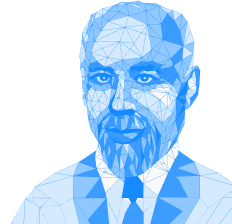
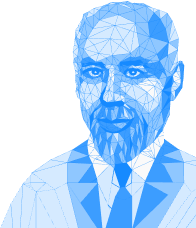
mob-version

diff --git a/banner.css b/banner.css
@@ -7,34 +7,40 @@ body{
     margin-top: 50px;
 }
 .mnw-wrapper{
-    margin: auto;
+    max-width: 690px;
 }
 
+/* всё что выше - удаляем */
+
 .mnw-wrapper{
-    width: 690px;
-    height: 358px;
+    margin: auto;
     background-color: #168AFF;
+    background-image: url(vein.png);
+    background-repeat: no-repeat;
+    background-position: 100% 100%;
 }
 .mnw-container{
-    max-width: 561px;
+    max-width: 576px;
     margin: auto;
-    padding: 2px 15px 0;
+    padding: 2px 15px 23px;
 }
 .mnw__content{
     padding-top: 10px;
-
-
     font-family: Myriad Pro;
     font-size: 16px;
-    font-style: normal;
     font-weight: 600;
     line-height: 19px;
     letter-spacing: 0em;
     text-align: left;
     color: #fff;
 }
+.mnw__img{
+    width: 100%;
+}
 .mnw__hr{
-    mar
+    width: 76%;
+    margin-top: 16px;
+    margin-bottom: 11px;
     color: #fff;
     border: none;
     border-top: 2px #fff solid;
@@ -43,25 +49,18 @@ body{
     margin-right: 10px;
 }
 .mnw__title{
-    font-family: Myriad Pro;
-    font-size: 20px;
-    font-style: normal;
-    font-weight: 900;
-    line-height: 24px;
-    letter-spacing: 0em;
-    text-align: left;   
-    text-transform: uppercase; 
     padding-bottom: 4px;
+    font-size: 20px;
+    font-weight: 900;
+    line-height: 24px;  
+    text-transform: uppercase; 
 }
 .mnw__button{
+    margin-top: 10px;
     padding: 10px 20px;
-    font-family: Myriad Pro;
-font-size: 12px;
-font-style: normal;
-font-weight: 900;
-line-height: 14px;
-letter-spacing: 0em;
-text-align: left;
+    font-size: 12px;
+    font-weight: 700;
+    line-height: 14px;
     background-color: #fff;
     color: #168AFF ;
     border: none;
@@ -69,4 +68,25 @@ text-align: left;
 }
 .mnw__button:active{
    background-color: #D5EAFF;
+}
+
+@media (max-width: 565px){
+    .mnw-wrapper{
+        background-image: none;
+    }
+    .mnw__content{
+        padding-top: 22px;
+    }
+    .mnw__hr{
+        width: 100%;
+        margin: 19px 0 20px;
+    }
+    .mnw__button{
+        width: 100%;
+        margin-top: 25px;
+        padding: 13px 20px;
+        font-size: 16px;
+        font-weight: 600;
+        line-height: 19px;
+    }
 }

diff --git a/banner.html b/banner.html
@@ -10,7 +10,7 @@
 <body>
     <div class="mnw-wrapper">
         <div class="mnw-container">
-            <img src="mnw.png" alt="московская неделя неврологии 7 - 12 ноября 2022">
+            <img class="mnw__img" src="mnw.png" alt="московская неделя неврологии 7 - 12 ноября 2022">
            <div class="mnw__content">
                <h3 class="mnw__title">7-9 февраля</h3>
                 <p><span>&bull;</span>Курсы тематического усовершенствования по неврологии</p>
